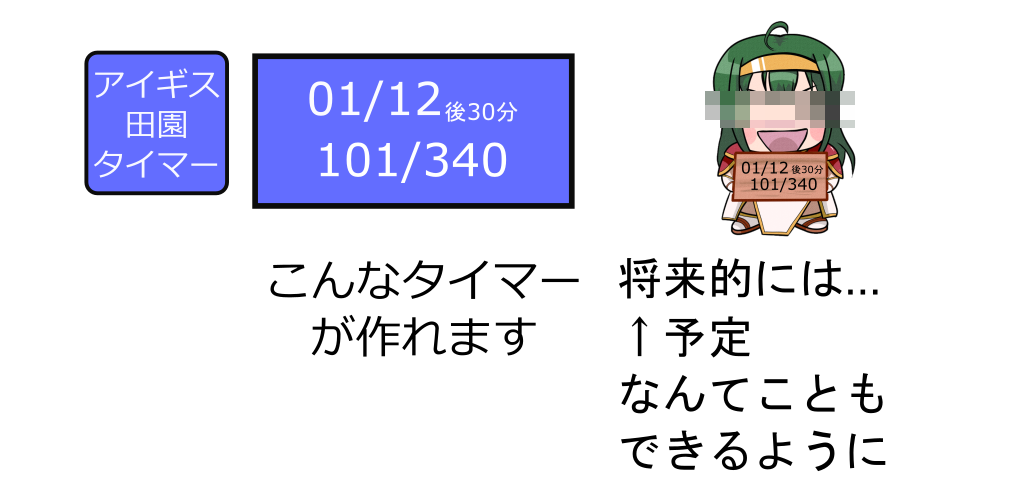
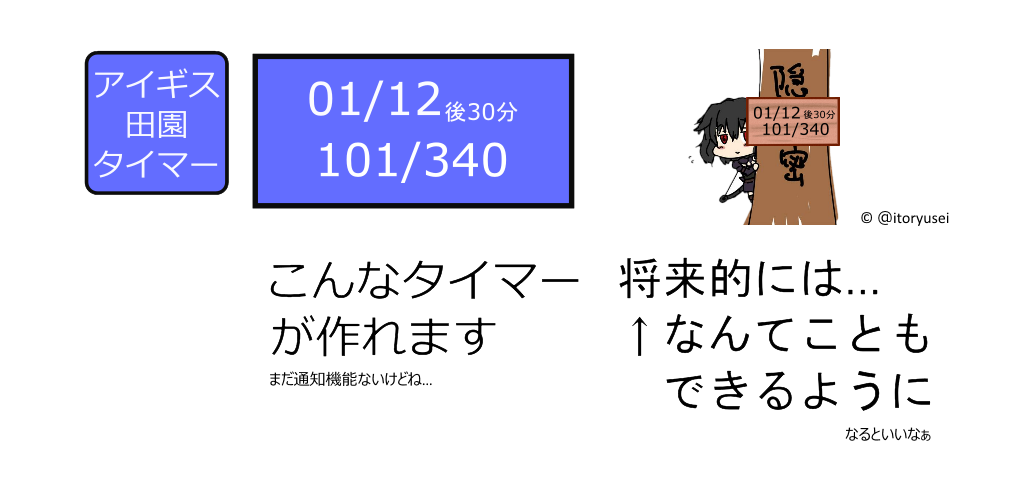
スタミナ計算が間違ってたのを修正 宣伝用PNGを修正。リタちゃんを使うように。 キャリーさんは権利がよくわからんので削除へ

diff --git a/src/com/toretate/denentokei/ClockInfo.java b/src/com/toretate/denentokei/ClockInfo.java
@@ -6,6 +6,7 @@ import android.appwidget.AppWidgetManager;
 import android.content.Context;
 import android.content.SharedPreferences;
 import android.support.annotation.NonNull;
+import android.widget.Toast;
  
 public class ClockInfo
 {
@@ -20,7 +21,7 @@ public class ClockInfo
     
     private int m_princeLv;
     
-	private int m_charisma;		//!< 現在のカリスマ
+	private int m_charisma;			//!< 現在のカリスマ
 	private int m_charismaMax;		//!< 現レベルでの最大カリスマ
 	private int m_charismaSub;		//!< カリスマが１回復するまでの分数(まぁ使わないでしょ…）
 	
@@ -42,6 +43,13 @@ public class ClockInfo
 	public int getCharisma() { return m_charisma; }
 	public String getCharismaString() { return String.format( Locale.getDefault(), "%03d", m_charisma + 1 ); }
 	public void setCharisma( final int charisma ) { this.m_charisma = Math.min( charisma, this.m_charismaMax +1 ); }
+	
+	public void toastSta( Context ctx )
+	{
+		long currentTimeMillis = System.currentTimeMillis();
+		Toast toast = Toast.makeText( ctx, m_stamina +":" +getStaminaString(currentTimeMillis), Toast.LENGTH_LONG);
+		toast.show();
+	}
 	
 	public int getCharismaMax() { return m_charismaMax; }
 	public String getCharismaMaxString() { return String.format( Locale.getDefault(), "%03d", m_charismaMax + 1 ); }
@@ -98,9 +106,11 @@ public class ClockInfo
 	 * @return 現在のスタミナ値
 	 */
 	public int getStamina( final long currentTimeMillis ) {
-		long now = currentTimeMillis - m_saveTime; 							// 経過ミリ秒
-		long sub = ( 60 - getStaminaSub( currentTimeMillis ) ) * 60 * 1000;	// ”後x分”のミリ秒
-		now = ( now + sub ) / s_interval_stamina;							// ミリ秒 -> h
+		long now = currentTimeMillis - m_saveTime; 		// 保存時からの経過ミリ秒
+		long sub = (60 - m_staminaSub ) * 60 * 1000;	// 保存時のm_staminaからの経過ミリ秒
+		
+		// 保存時からの経過ミリ秒 + 保存時のm_staminaからの経過ミリ秒 -> 経過h
+		now = (int)Math.floor( ( now + sub ) / s_interval_stamina );
 		
 		if( now <= Integer.MAX_VALUE ) {
 			return m_stamina + (int)now;

diff --git a/src/com/toretate/denentokei/ClockWidget.java b/src/com/toretate/denentokei/ClockWidget.java
@@ -10,10 +10,11 @@ import android.support.annotation.NonNull;
 import android.support.annotation.Nullable;
 import android.util.Log;
 import android.widget.RemoteViews;
+import android.widget.Toast;
 
 public class ClockWidget extends AppWidgetProvider
 {
-	public static String s_fromWidgetSettingButton = "fromWidgetSettingButton";
+	public static String s_fromWidgetSettingButton 	= "fromWidgetSettingButton";
 	
 	@Override
 	public void onEnabled( @Nullable final Context context )
@@ -140,7 +141,18 @@ public class ClockWidget extends AppWidgetProvider
 			views.setTextViewText( R.id.staminaClockSub, info.getStaminaSubString( now ) );
 			views.setTextViewText( R.id.charismaClock, info.getCharismaString( now ) );
 		}
-
+		
+//		if( BuildConfig.DEBUG ) {
+//			String msg = "sta:" +info.getStamina() + ", " +info.getStaminaString(System.currentTimeMillis());
+//			
+//			final Intent intent = new Intent( context, DebugToastService.class );
+//			intent.putExtra( AppWidgetManager.EXTRA_APPWIDGET_ID, appWidgetId );
+//			intent.putExtra( DebugToastService.s_toastMsg, msg );
+//			
+//			final PendingIntent pendingIntent = PendingIntent.getService( context, appWidgetId, intent, PendingIntent.FLAG_UPDATE_CURRENT );
+//			views.setOnClickPendingIntent( R.id.widget_surface, pendingIntent);
+//		}
+		
 		// ボタンハンドラの設定
 		{
 			final Intent intent = new Intent( context, ClockWidgetSettingsActivity.class );

diff --git a/src/com/toretate/denentokei/DebugToastService.java b/src/com/toretate/denentokei/DebugToastService.java
@@ -1,0 +1,30 @@
+package com.toretate.denentokei;
+
+import android.app.Service;
+import android.content.Intent;
+import android.os.IBinder;
+import android.widget.Toast;
+
+public class DebugToastService extends Service {
+	
+	public static String s_toastMsg;
+
+	@Override
+	public IBinder onBind(Intent arg0) {
+		// TODO Auto-generated method stub
+		return null;
+	}
+	
+	@Override
+	public int onStartCommand(Intent intent, int flags, int startId)
+	{
+		String msg = (String)intent.getCharSequenceExtra( s_toastMsg );
+		
+		Toast.makeText(this, msg, Toast.LENGTH_LONG).show();
+		
+		stopSelf();
+		
+		return super.onStartCommand(intent, flags, startId);
+	}
+
+}
